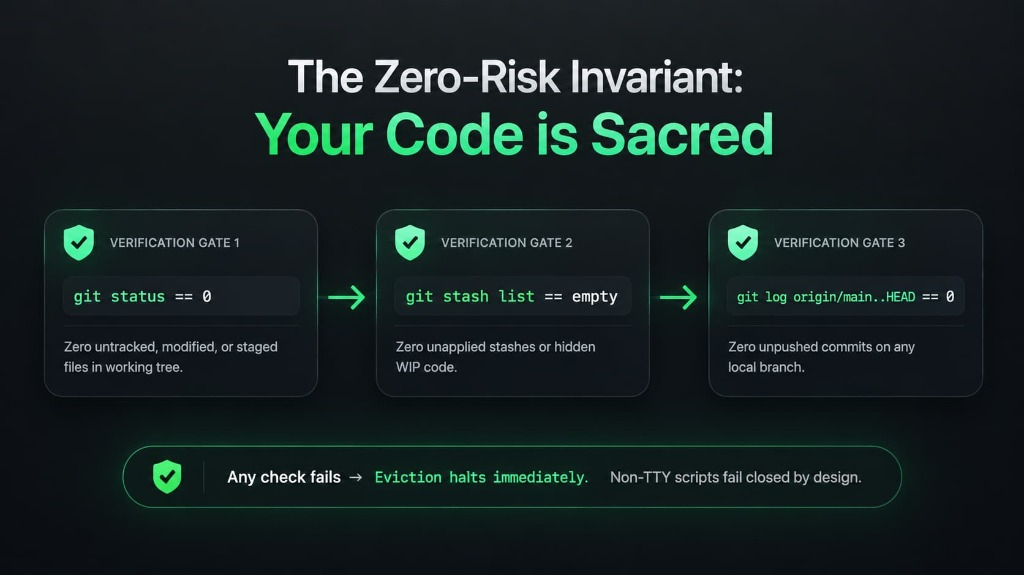
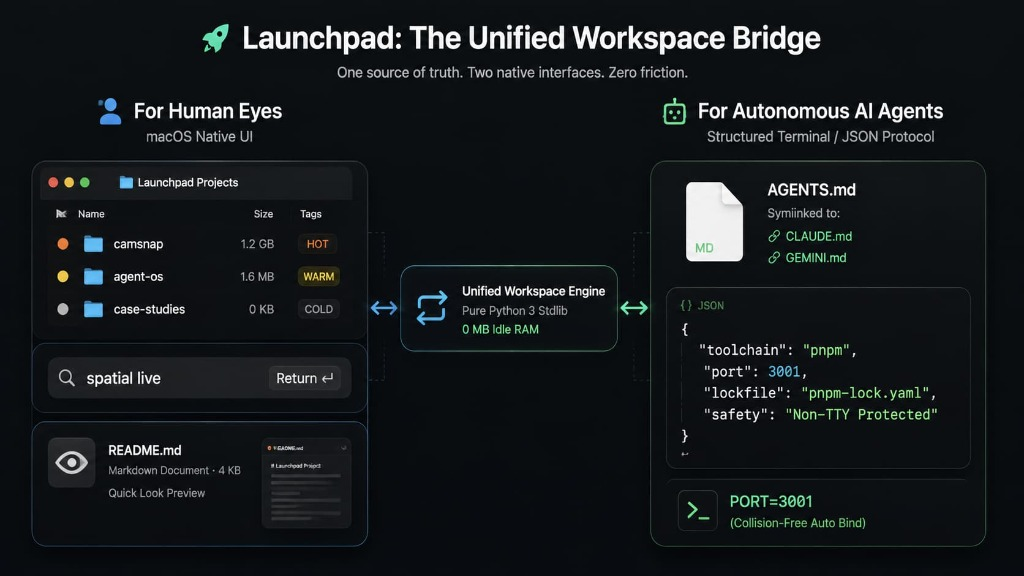
docs: add Unified Workspace Bridge visual for AI agents

diff --git a/README.md b/README.md
@@ -108,6 +108,10 @@ Non-interactive `--force` calls (such as background scripts or automated AI tool
 
 Launchpad acts as the universal workspace bridge: humans navigate visually through Finder and Spotlight, while autonomous coding agents (Claude Code, Cursor, Gemini CLI, Antigravity) interact through structured machine protocols.
 
+<div align="center">
+  <img src="assets/agent-bridge.jpg" alt="Launchpad Unified Workspace Bridge for Humans and AI Agents" width="90%" style="border-radius: 12px;" />
+</div>
+
 * **`AGENTS.md` Workspace Contract:** Automatically placed at the workspace root (symlinked to `CLAUDE.md` and `GEMINI.md`) to establish rigid boundaries, safety rules, and CLI tools for AI agents.
 * **Structured Context Cards:** Agents run `launchpad context <project>` to receive machine-readable JSON cards detailing runtime managers (`mise`, `volta`, `fnm`, `nvm`), lockfiles, and run recipes.
 * **Collision-Free Port Allocator:** `launchpad run <project>` automatically probes port availability. If port 3000 is busy, it cleanly binds to `3001` with `PORT=3001`, preventing agent boot collisions.
